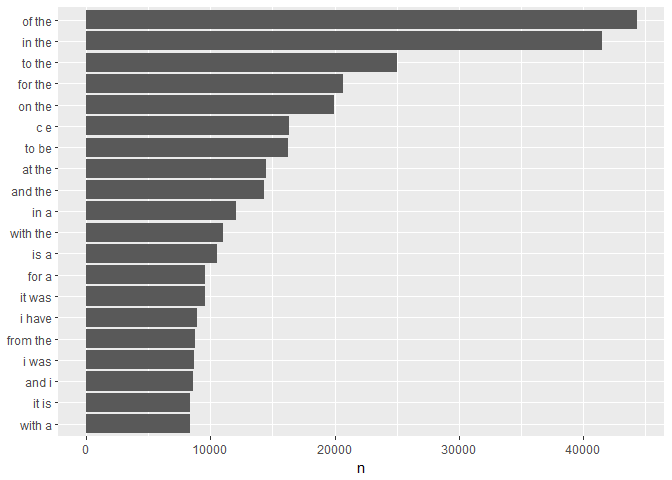
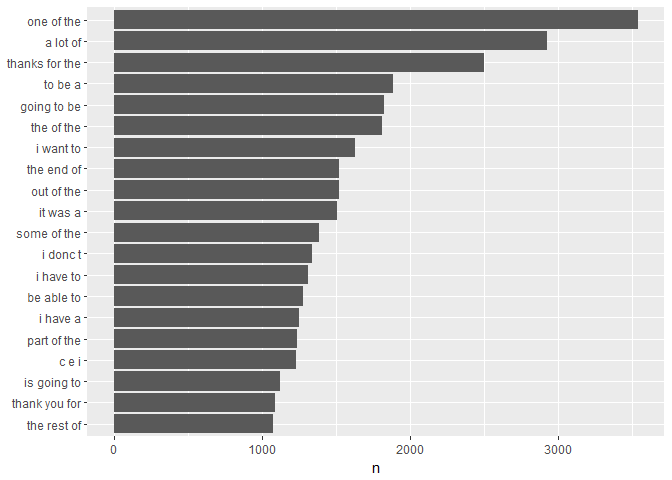
Add 5-grams

diff --git a/04A_Task_Script.md b/04A_Task_Script.md
@@ -1,11 +1,11 @@
 Task 04A: Fast Ngram Files
 ================
 Mark Blackmore
-2017-11-27
+2017-11-28
 
 -   [Load the Data](#load-the-data)
 -   [Sample the data](#sample-the-data)
--   [Clean the data](#clean-the-data)
+-   [Clean the sample data](#clean-the-sample-data)
 -   [Create all n-grams](#create-all-n-grams)
 -   [Reduce n-grams files](#reduce-n-grams-files)
 -   [What does the distribution on ngrams look like?](#what-does-the-distribution-on-ngrams-look-like)
@@ -31,7 +31,7 @@ news    <- readLines(news_file,  skipNul = TRUE)
 twitter <- readLines(twitter_file, skipNul = TRUE)
 ```
 
-Read the data files into dataframes
+Create dataframes
 
 ``` r
 blogs   <- data_frame(text = blogs)
@@ -71,8 +71,8 @@ rm(list = c("blogs", "blogs_file", "blogs_sample","news", "news_file",
             "twitter_sample"))
 ```
 
-Clean the data
---------------
+Clean the sample data
+---------------------
 
 Create filters: non-alphanumeric's, url's, repeated letters(+3x)
 
@@ -118,6 +118,13 @@ quadgram_repo <- clean_sample  %>%
   unnest_tokens(quadgram, text, token = "ngrams", n = 4)
 ```
 
+Quingrams
+
+``` r
+quingram_repo <- clean_sample  %>%
+  unnest_tokens(quingram, text, token = "ngrams", n = 5)
+```
+
 Reduce n-grams files
 --------------------
 
@@ -151,18 +158,30 @@ quadgram_cover <- quadgram_repo %>%
 rm(list = c("quadgram_repo"))
 ```
 
+Quingrams
+
+``` r
+quingram_cover <- quingram_repo %>%
+  count(quingram) %>%  
+  filter(n > 10) %>%
+  arrange(desc(n))  
+rm(list = c("quingram_repo"))
+```
+
 What does the distribution on ngrams look like?
 -----------------------------------------------
 
 ``` r
 disty <- data_frame(ngram = c(rep("bigrams",   nrow(bigram_cover)),
                              rep("trigrams",  nrow(trigram_cover)),
-                             rep("quadgrams", nrow(quadgram_cover))),
-                   number = c(bigram_cover$n, trigram_cover$n, quadgram_cover$n))
+                             rep("quadgrams", nrow(quadgram_cover)),
+                             rep("quingrams", nrow(quingram_cover))),
+                   number = c(bigram_cover$n, trigram_cover$n, quadgram_cover$n,
+                              quingram_cover$n))
 disty
 ```
 
-    ## # A tibble: 148,719 x 2
+    ## # A tibble: 150,036 x 2
     ##      ngram number
     ##      <chr>  <int>
     ##  1 bigrams  44296
@@ -175,7 +194,7 @@ disty
     ##  8 bigrams  14462
     ##  9 bigrams  14357
     ## 10 bigrams  12060
-    ## # ... with 148,709 more rows
+    ## # ... with 150,026 more rows
 
 ``` r
 disty$ngram <- as.factor(disty$ngram)
@@ -191,6 +210,24 @@ ggsave("./ngram_match/www/ngrams.png")
     ## Saving 7 x 5 in image
 
 ``` r
+quingram_cover %>%
+  top_n(20, n) %>%
+  mutate(quingram = reorder(quingram, n)) %>%
+  ggplot(aes(quingram, n)) +
+  geom_col() +
+  xlab(NULL) +
+  coord_flip()
+```
+
+![](04A_Task_Script_files/figure-markdown_github-ascii_identifiers/DistyPlot-2.png)
+
+``` r
+ggsave("./ngram_match/www/quingrams.png")
+```
+
+    ## Saving 7 x 5 in image
+
+``` r
 quadgram_cover %>%
   top_n(20, n) %>%
   mutate(quadgram = reorder(quadgram, n)) %>%
@@ -200,7 +237,7 @@ quadgram_cover %>%
   coord_flip()
 ```
 
-![](04A_Task_Script_files/figure-markdown_github-ascii_identifiers/DistyPlot-2.png)
+![](04A_Task_Script_files/figure-markdown_github-ascii_identifiers/DistyPlot-3.png)
 
 ``` r
 ggsave("./ngram_match/www/quadgrams.png")
@@ -218,7 +255,7 @@ trigram_cover %>%
   coord_flip()
 ```
 
-![](04A_Task_Script_files/figure-markdown_github-ascii_identifiers/DistyPlot-3.png)
+![](04A_Task_Script_files/figure-markdown_github-ascii_identifiers/DistyPlot-4.png)
 
 ``` r
 ggsave("./ngram_match/www/trigrams.png")
@@ -236,7 +273,7 @@ bigram_cover %>%
   coord_flip()
 ```
 
-![](04A_Task_Script_files/figure-markdown_github-ascii_identifiers/DistyPlot-4.png)
+![](04A_Task_Script_files/figure-markdown_github-ascii_identifiers/DistyPlot-5.png)
 
 ``` r
 ggsave("./ngram_match/www/bigrams.png")
@@ -310,12 +347,34 @@ quad_words
     ## 10 going    to    be     a   376
     ## # ... with 9,931 more rows
 
+``` r
+quin_words <- quingram_cover %>%
+  separate(quingram, c("word1", "word2", "word3", "word4", "word5"), sep = " ")
+quin_words
+```
+
+    ## # A tibble: 1,317 x 6
+    ##    word1 word2 word3 word4 word5     n
+    ##  * <chr> <chr> <chr> <chr> <chr> <int>
+    ##  1    at   the   end    of   the   371
+    ##  2   for   the first  time    in   145
+    ##  3   the   end    of   the   day   128
+    ##  4   for   the  rest    of   the   124
+    ##  5    by   the   end    of   the   122
+    ##  6 thank   you    so  much   for   108
+    ##  7 there   are     a   lot    of   108
+    ##  8   its going    to    be     a    98
+    ##  9   let    me  know    if   you    94
+    ## 10    is going    to    be     a    93
+    ## # ... with 1,307 more rows
+
 Save data for the Shiny App
 
 ``` r
 saveRDS(bi_words, "./ngram_match/app_data/bi_words_fast.rds")
 saveRDS(tri_words, "./ngram_match/app_data/tri_words_fast.rds")
 saveRDS(quad_words,"./ngram_match/app_data/quad_words_fast.rds")
+saveRDS(quin_words,"./ngram_match/app_data/quin_words_fast.rds")
 ```
 
 ------------------------------------------------------------------------
